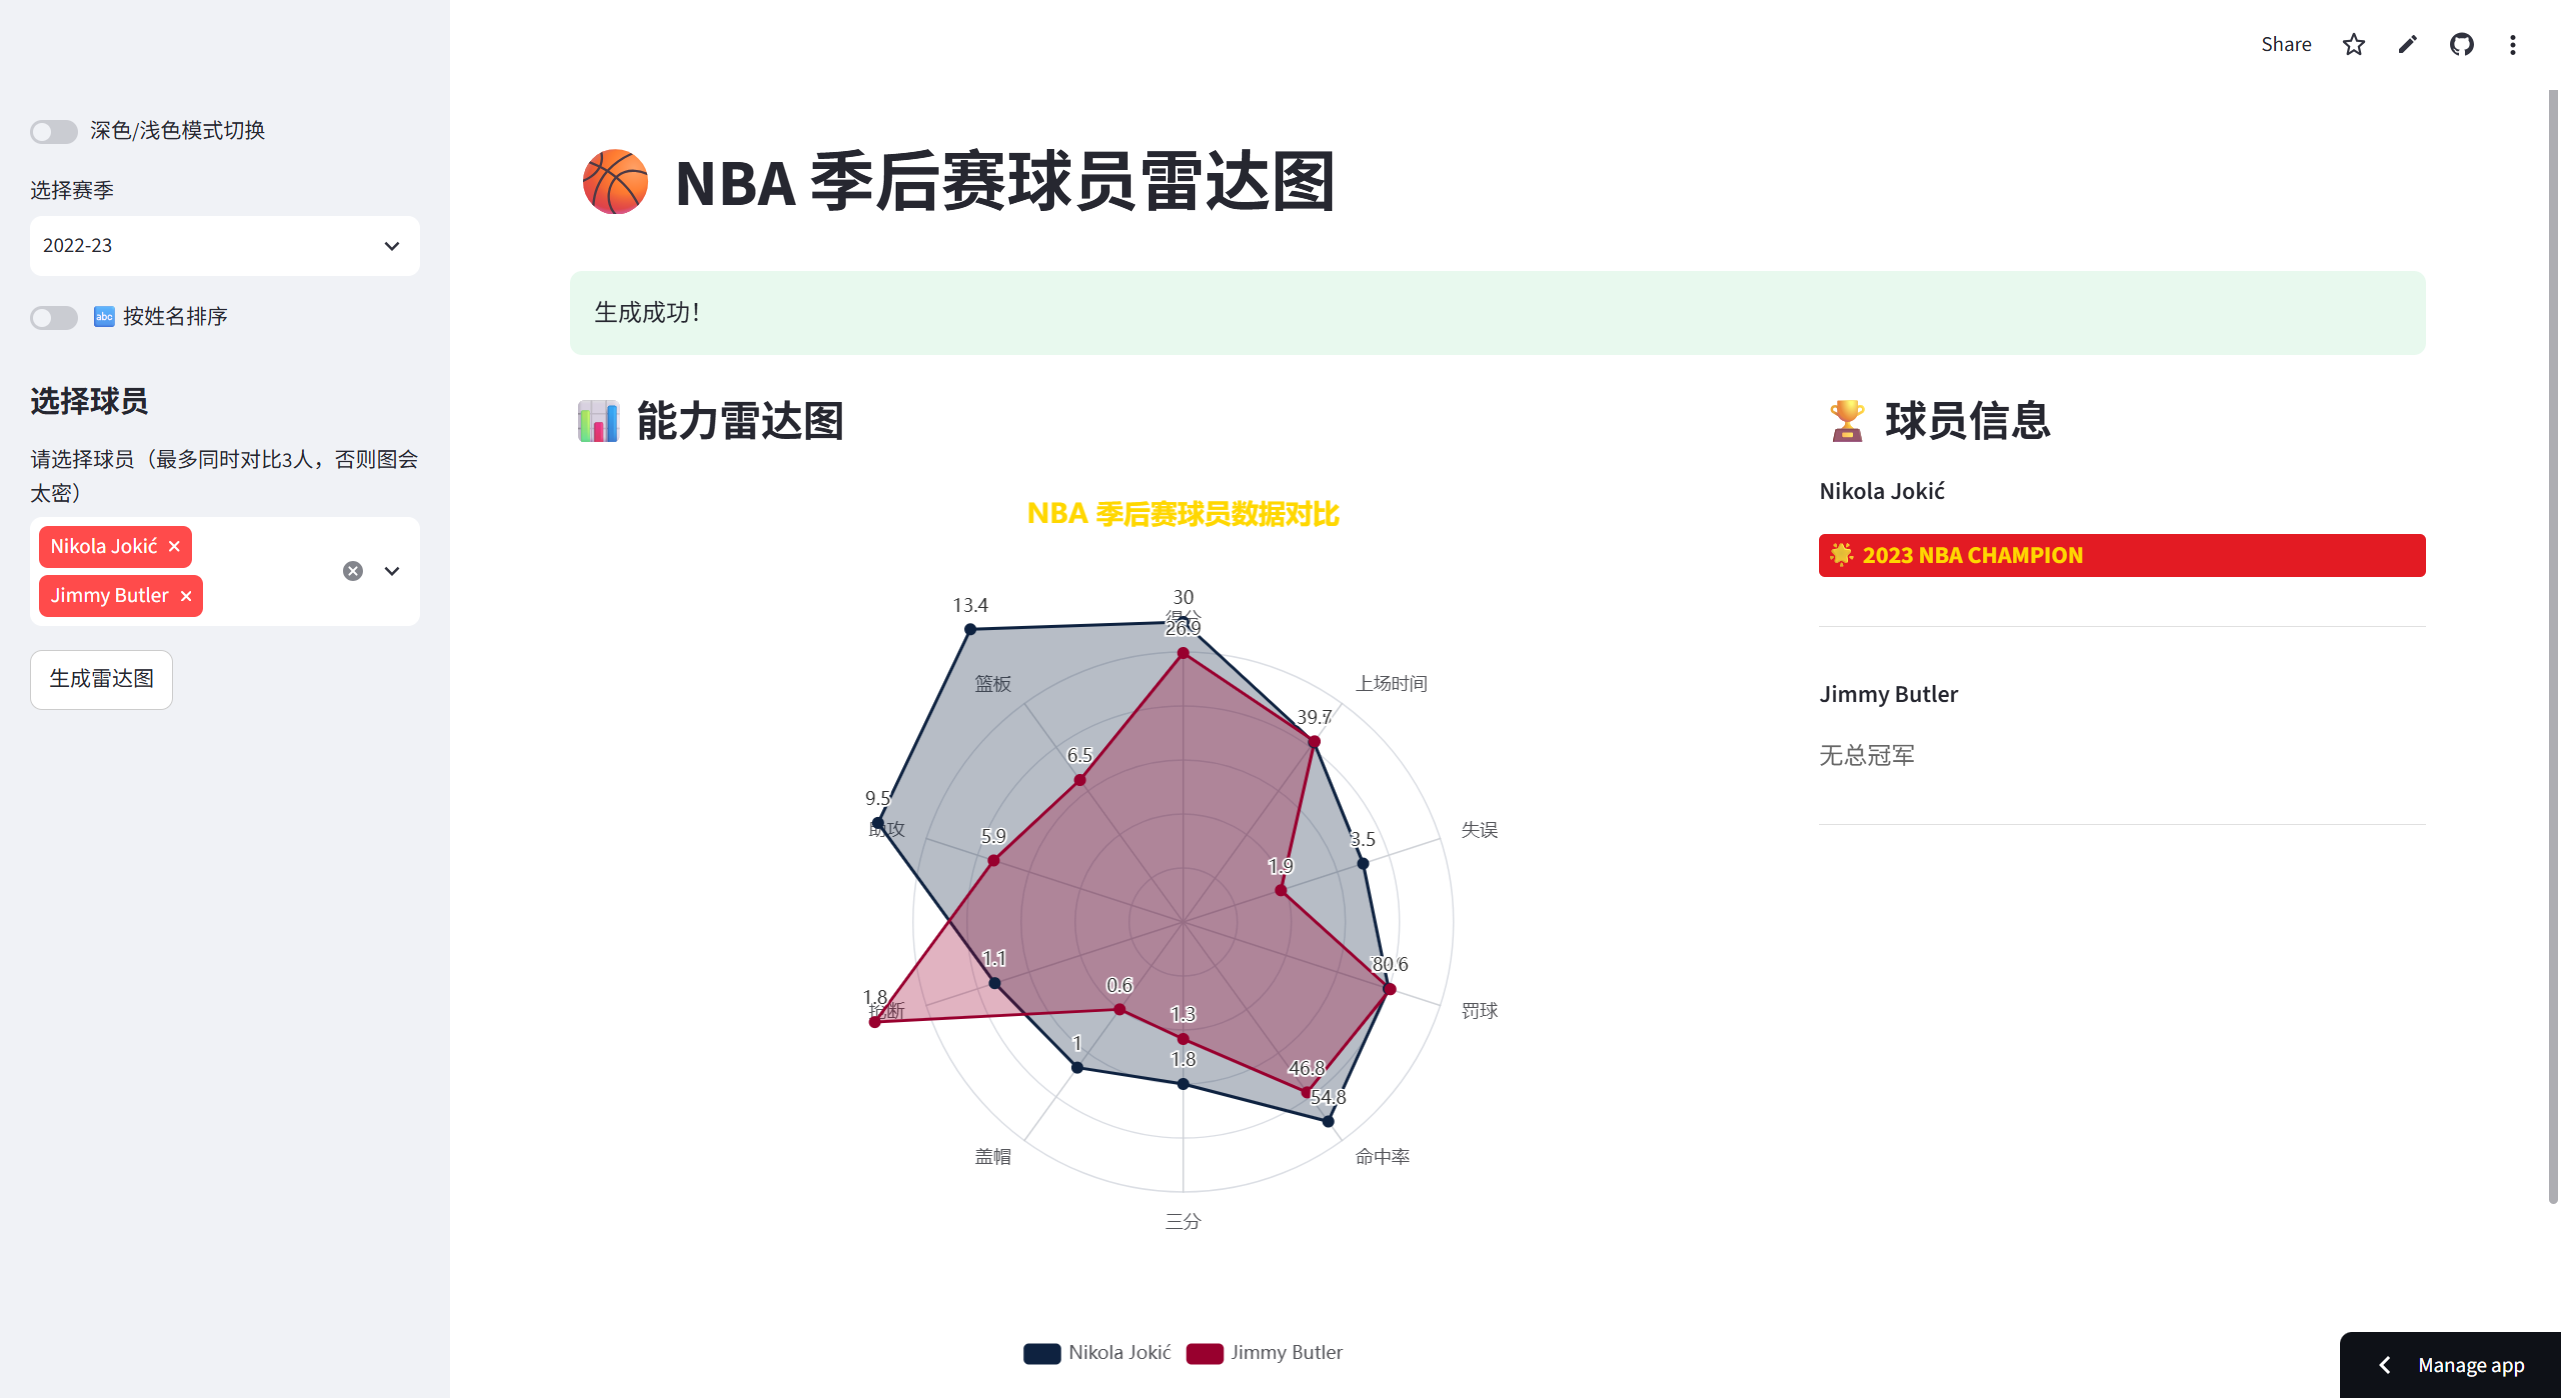
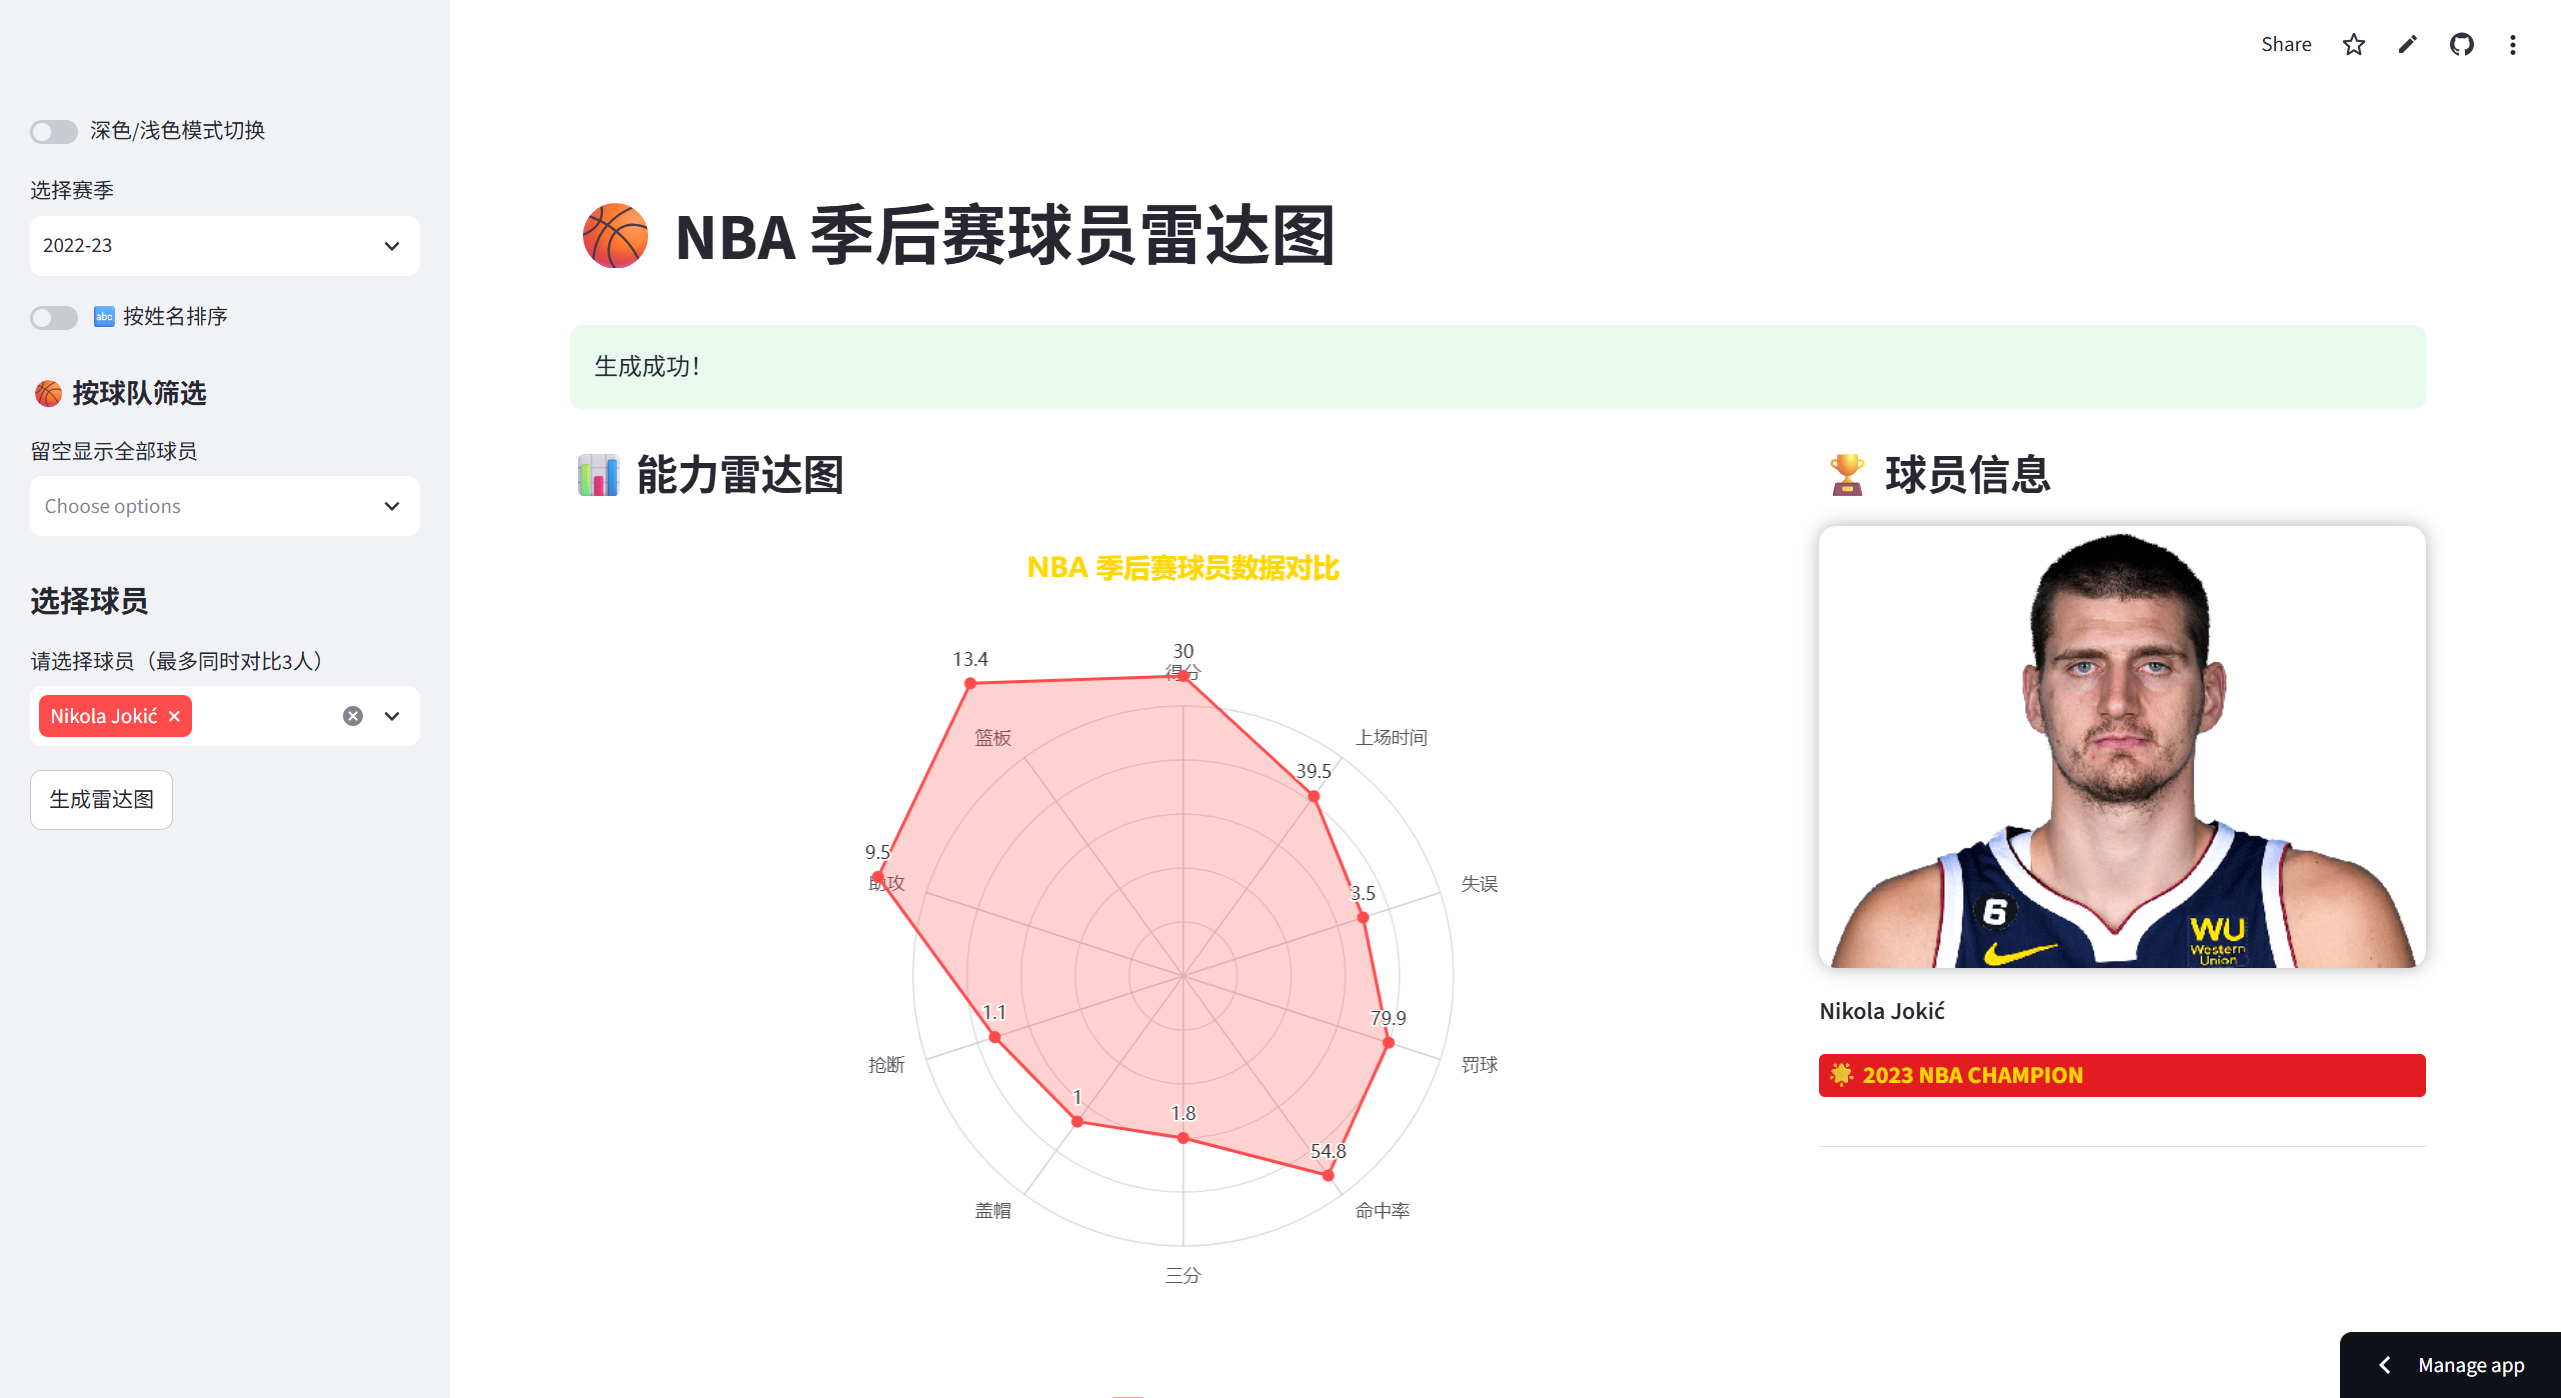
22-23赛季照片补充（5）

diff --git a/app.py b/app.py
@@ -348,7 +348,7 @@ if st.session_state.get("radar_html"):
             if os.path.exists(photo_path):
                 st.image(photo_path, width=450)
             else:
-                st.image("https://via.placeholder.com/120?text=No+Photo", width=120)
+                st.image("https://placehold.co/120?text=No+Photo", width=120)
 
             st.markdown(f"**{player['name']}**")
 
